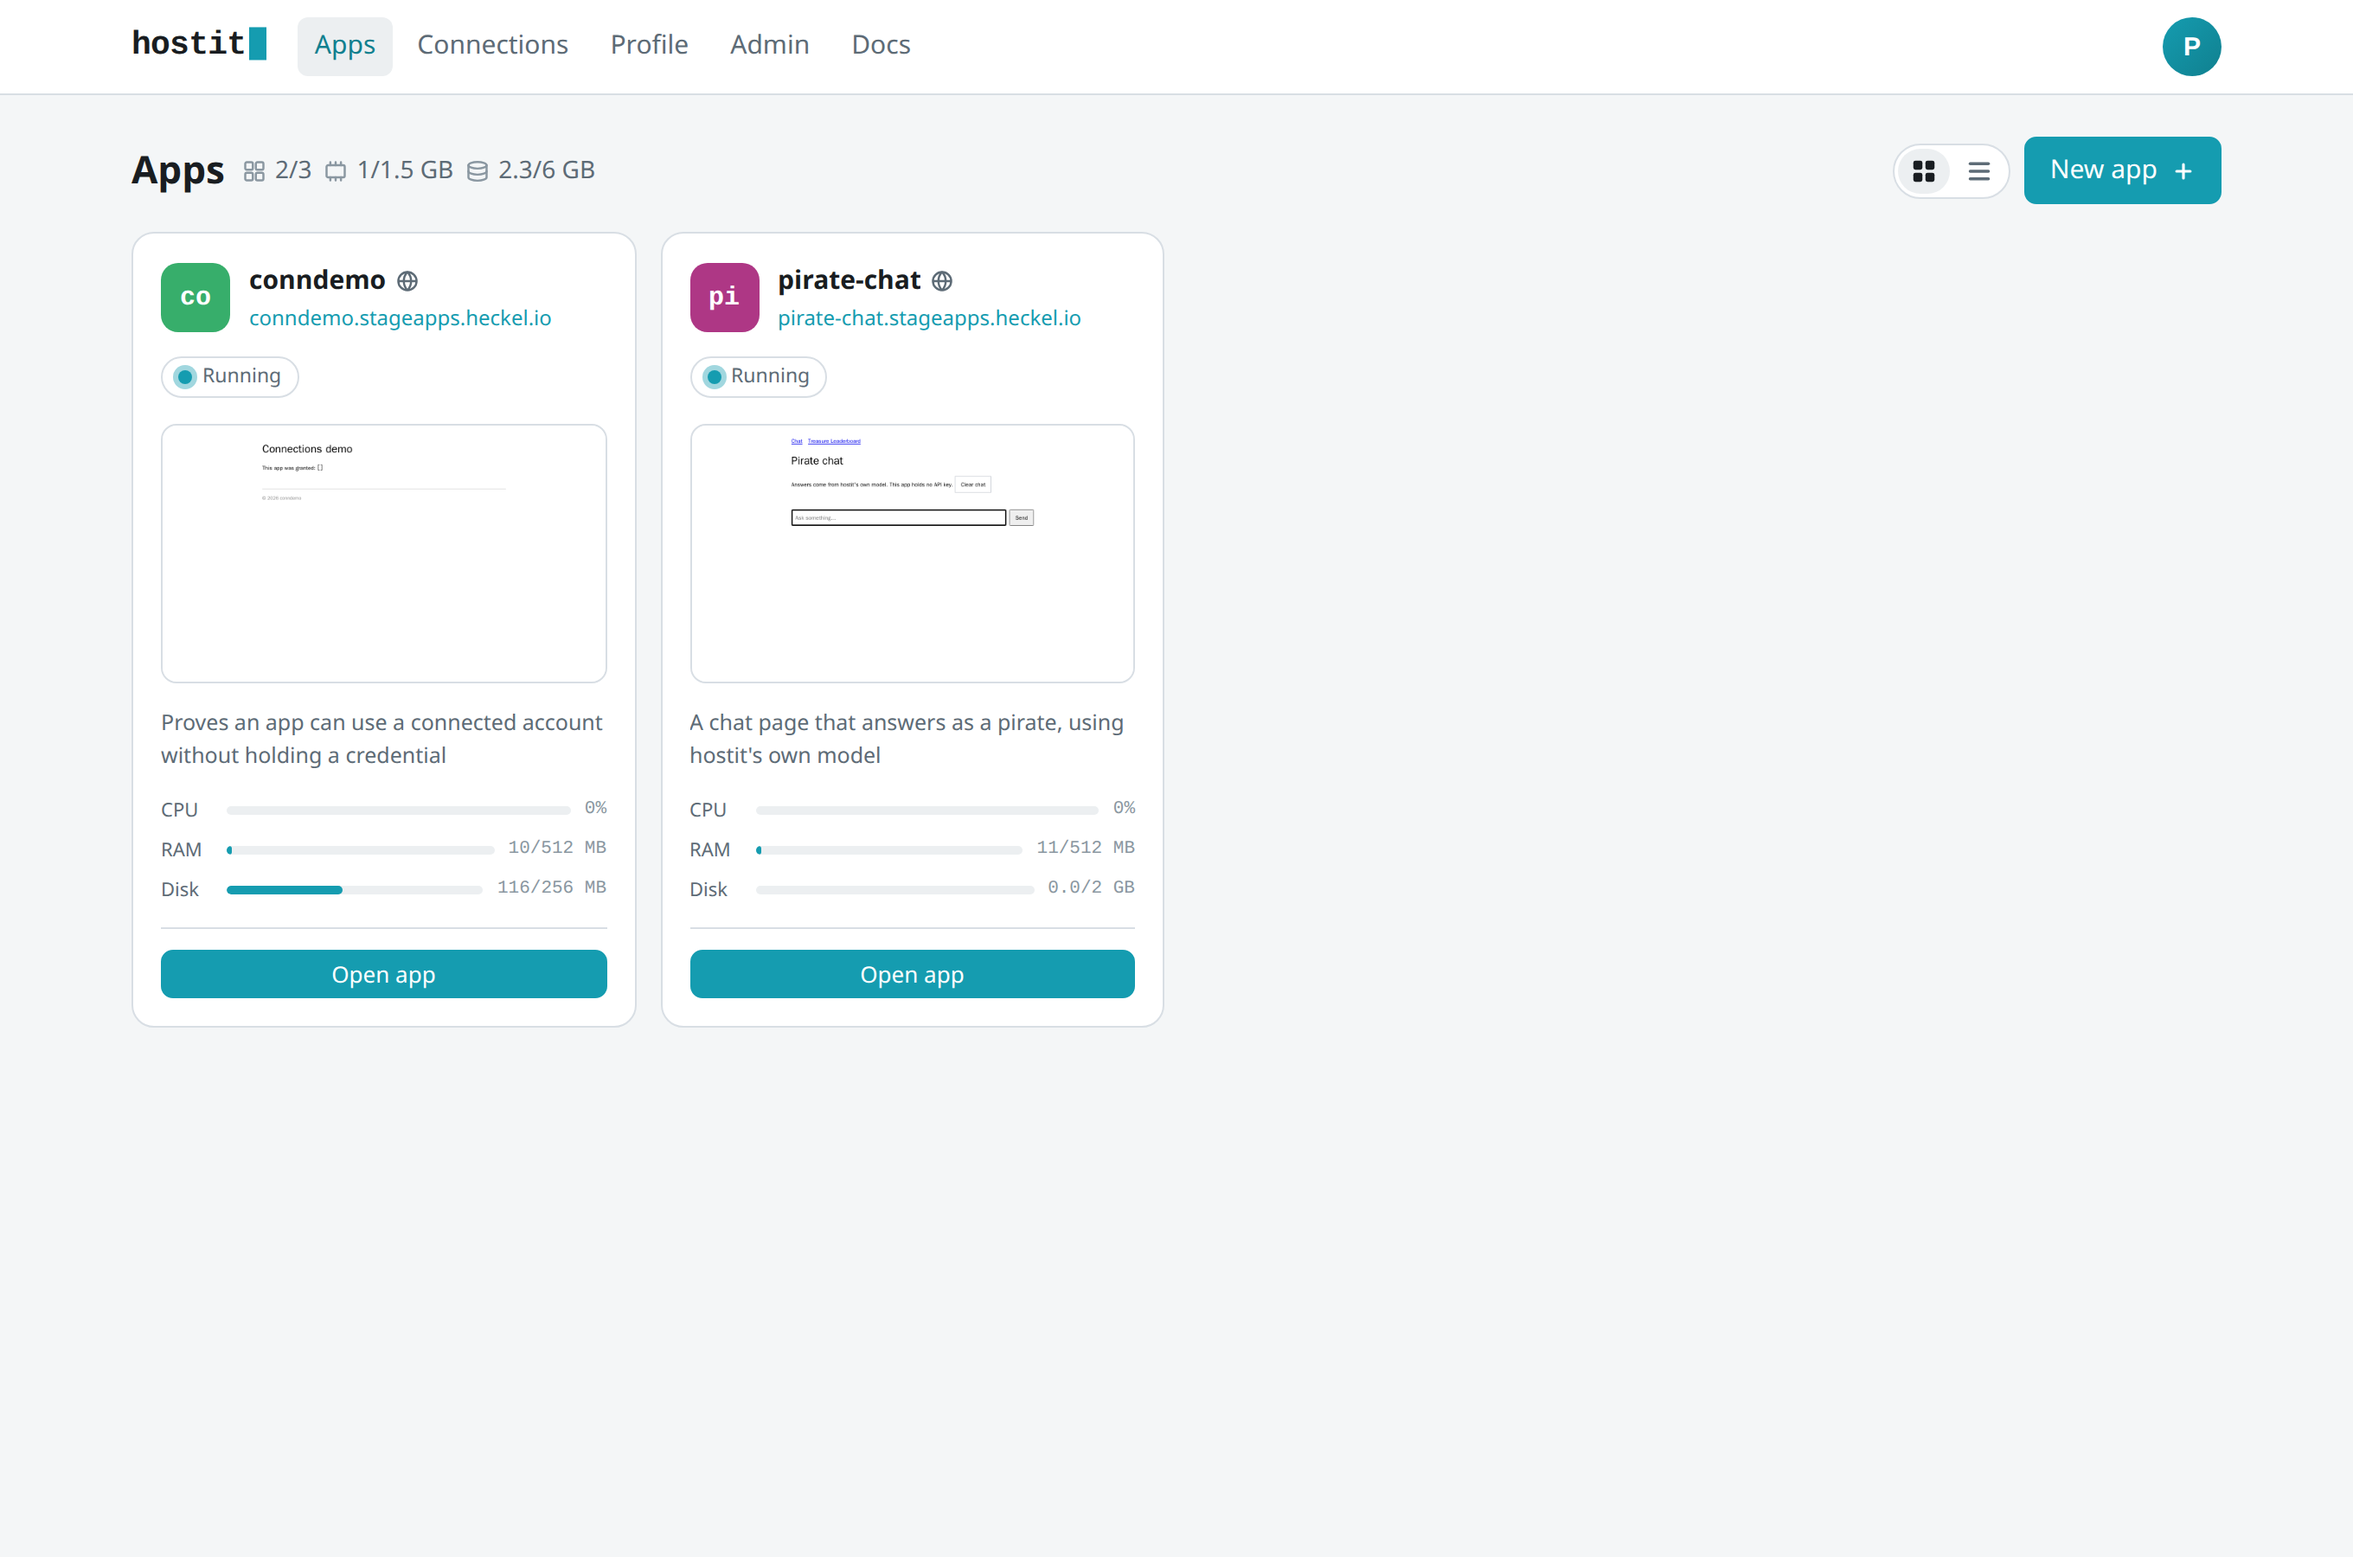
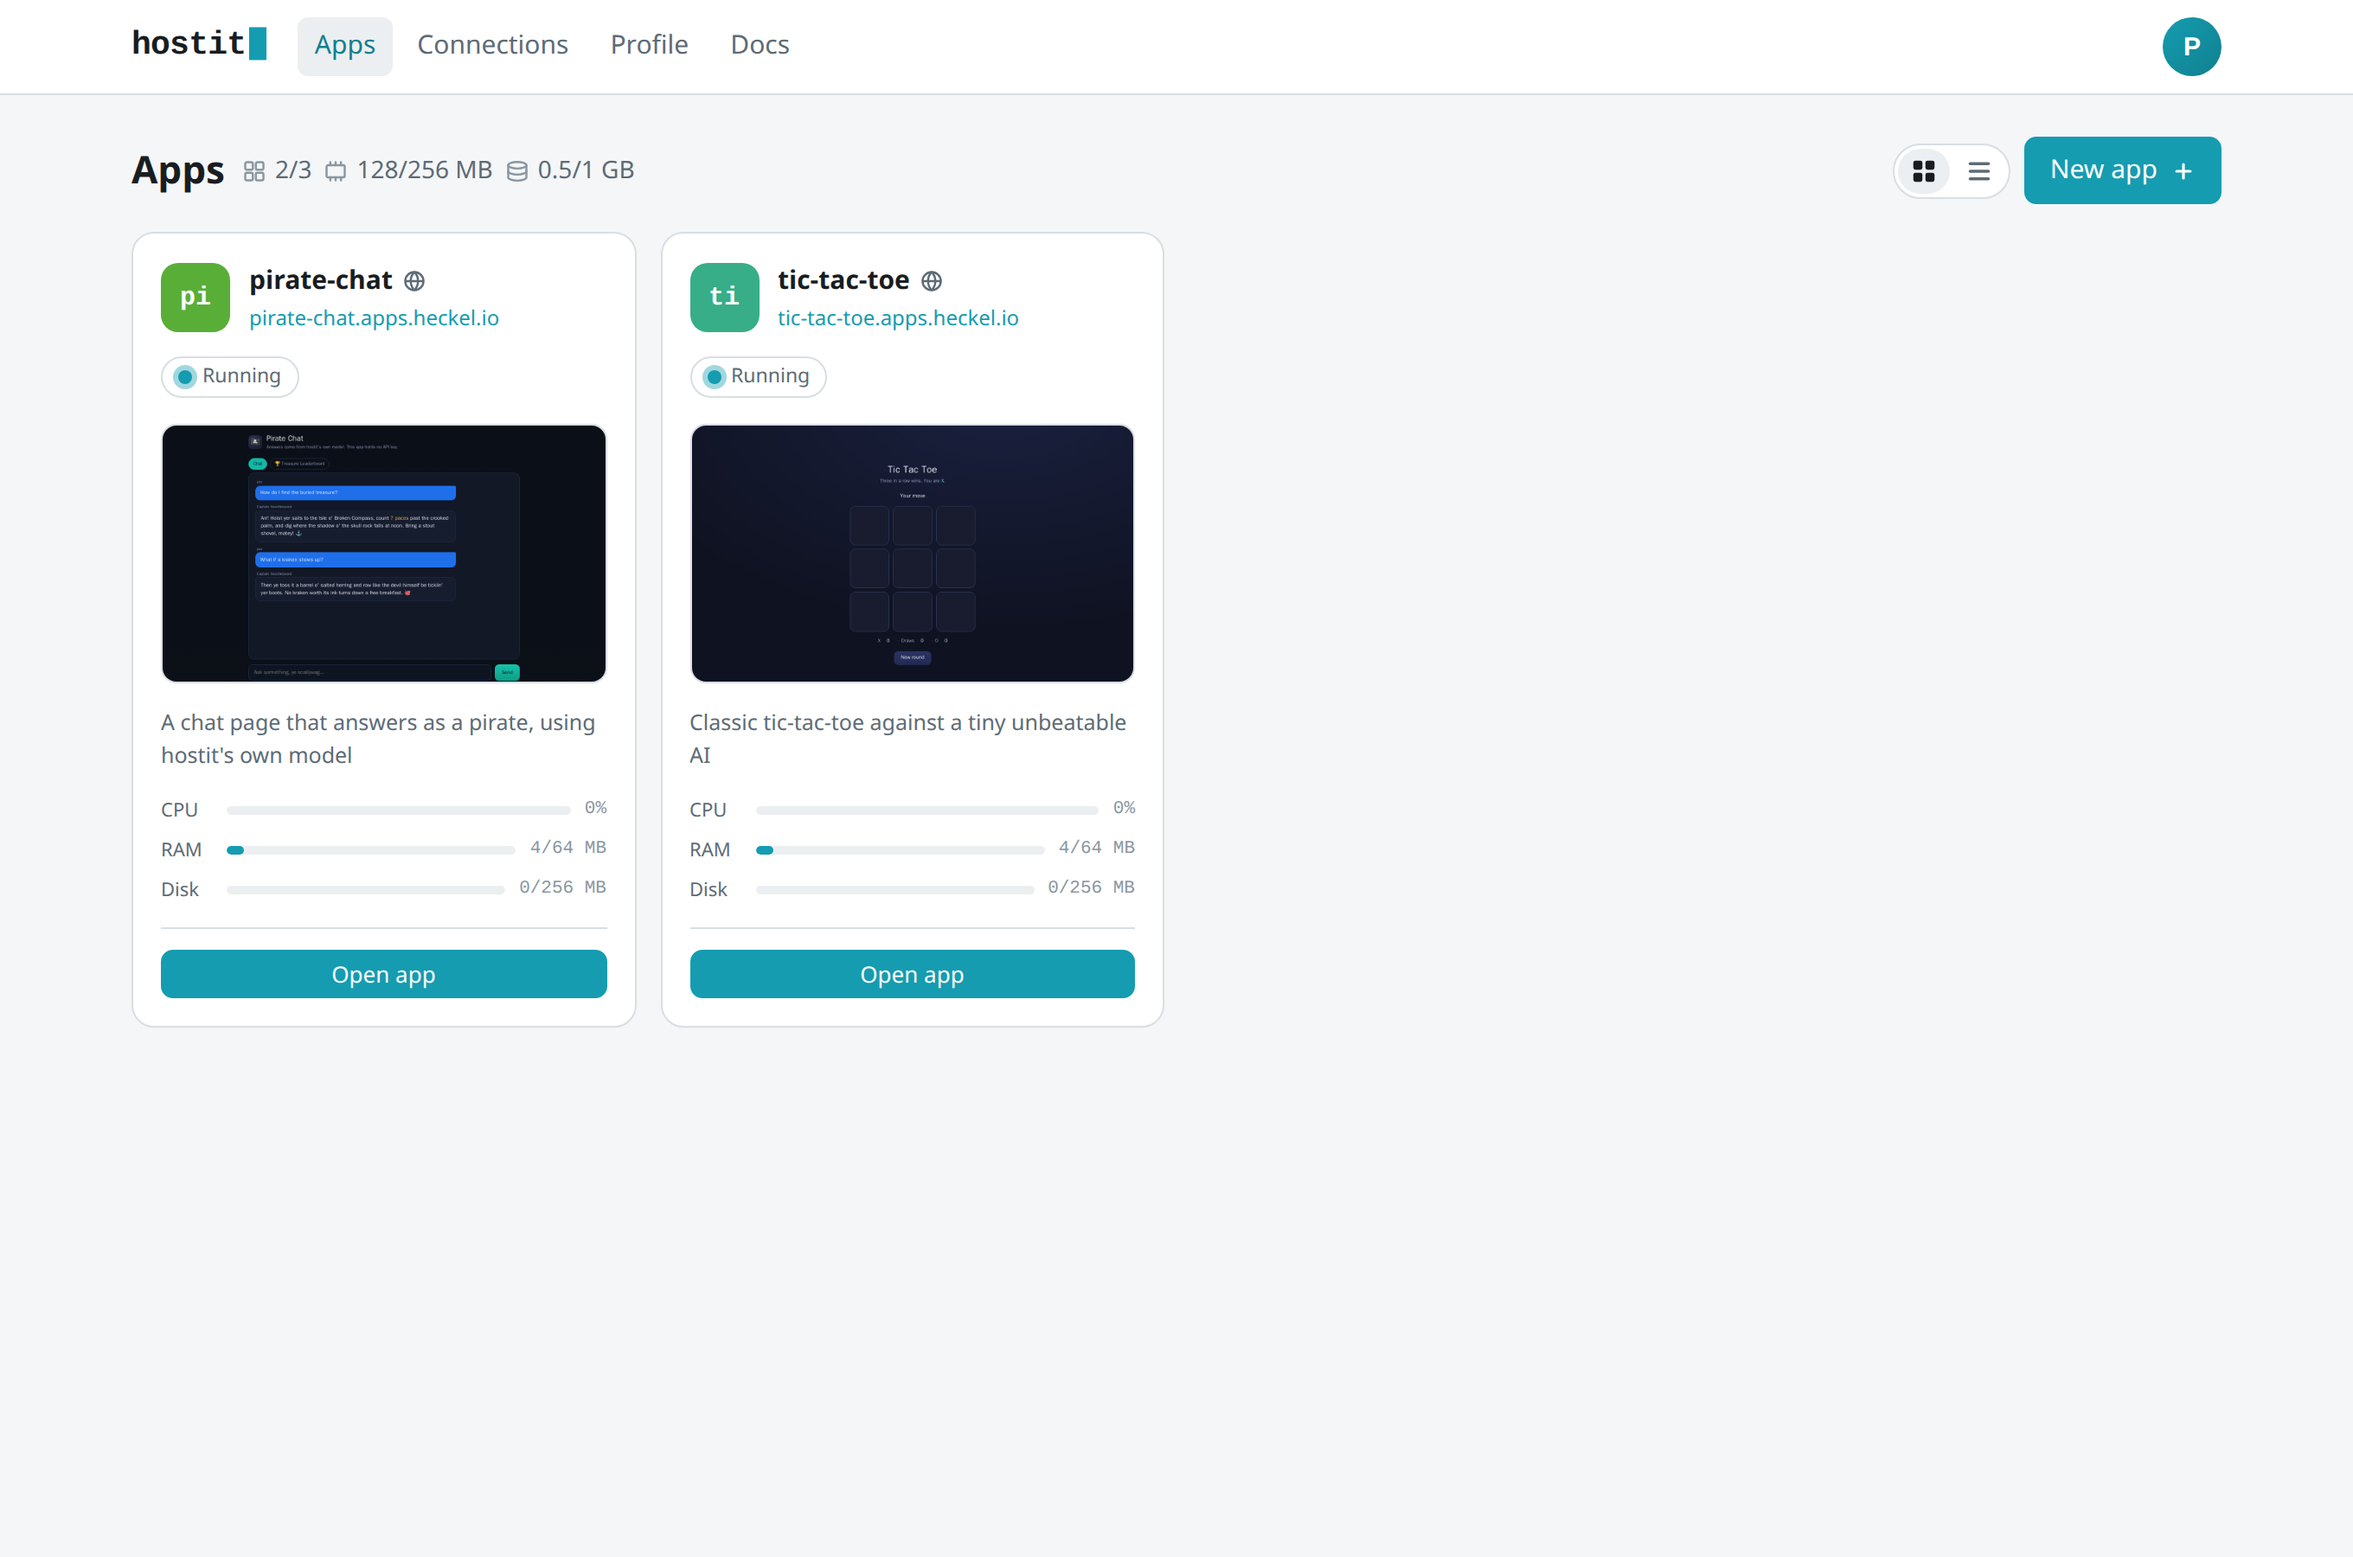
docs: fix stale code references + refresh screenshots from prod
References corrected after the role-partition refactor moved code:
- firewall/service.go:renderRuleset -> system/nftables/service.go:renderRuleset
- control/manager.go:{uidFor,writeKeysIn,ReconcilePortRules} -> node/machine.go
- control/manager.go:lockApp -> control/manager.go:LockApp (case)
- /var/lib/hostit/apps -> /var/lib/hostit/node/apps (btrfs pool moved)
Left correct refs untouched (control/socket.go still serves the self-API;
control/manager.go still owns create/Fork/CreateApp/DeleteApp).

Screenshots (dashboard, editor, terminal) retaken on apps.heckel.io with two
demo apps (pirate-chat, tic-tac-toe).

diff --git a/docs/slides/presentations/create-flow.md b/docs/slides/presentations/create-flow.md
@@ -143,15 +143,15 @@ The app's entire filesystem is ONE btrfs snapshot of the base OS tree.
 Metadata-only, instant, and **root-owned** -- ownership is never baked in.
 
 ```sh
-btrfs subvolume snapshot /var/lib/hostit/apps/.bases/1a3027527a55 \
-                         /var/lib/hostit/apps/d94773c9b2c3
+btrfs subvolume snapshot /var/lib/hostit/node/apps/.bases/1a3027527a55 \
+                         /var/lib/hostit/node/apps/d94773c9b2c3
 mkdir -p .../d94773c9b2c3/home/app        # 0755, the app's files dir
 ```
 
 <v-click>
 
 ```sh
-$ btrfs subvolume show /var/lib/hostit/apps/d94773c9b2c3
+$ btrfs subvolume show /var/lib/hostit/node/apps/d94773c9b2c3
 d94773c9b2c3
         Name:                   d94773c9b2c3
         UUID:                   de035bbc-0c44-ea49-93cd-25ac26a27390
@@ -294,15 +294,15 @@ One qgroup per app, keyed on the uid, capped on **exclusive** bytes -- what the
 app itself pins. Extents shared with the base are charged to nobody.
 
 ```sh
-btrfs qgroup create 1/1262144 /var/lib/hostit/apps
-btrfs qgroup assign 0/2115 1/1262144 /var/lib/hostit/apps   # 0/<rootid> = the subvolume
-btrfs qgroup limit -e 2048M 1/1262144 /var/lib/hostit/apps
+btrfs qgroup create 1/1262144 /var/lib/hostit/node/apps
+btrfs qgroup assign 0/2115 1/1262144 /var/lib/hostit/node/apps   # 0/<rootid> = the subvolume
+btrfs qgroup limit -e 2048M 1/1262144 /var/lib/hostit/node/apps
 ```
 
 <v-click>
 
 ```sh
-$ btrfs qgroup show -e /var/lib/hostit/apps | grep 1/1262144
+$ btrfs qgroup show -e /var/lib/hostit/node/apps | grep 1/1262144
 qgroupid      referenced    exclusive    max exclusive
 1/1262144     781.89MiB     436.00KiB    2.00GiB
 ```
@@ -343,7 +343,7 @@ are derived from the registry, never edited incrementally.
 </div>
 
 ```
-code: firewall/service.go, control/manager.go ReconcilePortRules()
+code: system/nftables/service.go, node/machine.go ReconcilePortRules()
 ```
 
 ---
@@ -365,7 +365,7 @@ podman create --name hostit-app-d94773c9b2c3 --hostname blog
   --volume /usr/bin/hostit:/usr/bin/hostit:ro
   --volume /run/hostit:/run/hostit:ro    # the daemon's unix socket
   --label hostit.config=b20b87e31ca0510e # config hash: recreate only on change
-  --rootfs /var/lib/hostit/apps/d94773c9b2c3:idmap
+  --rootfs /var/lib/hostit/node/apps/d94773c9b2c3:idmap
   /usr/bin/hostit agent                  # the agent is PID 1
 ```
 
@@ -383,7 +383,7 @@ container's uid mapping. disk root <-> container root, one rule, no chown.
 
 ```sh
 $ findmnt | grep apps/d94773c9b2c3
-/var/lib/hostit/apps/d94773c9b2c3   /dev/loop0[/d94773c9b2c3]   btrfs   rw,idmapped,...
+/var/lib/hostit/node/apps/d94773c9b2c3   /dev/loop0[/d94773c9b2c3]   btrfs   rw,idmapped,...
 ```
 
 <v-clicks>
@@ -482,7 +482,7 @@ code: hostit-app@.service, agent/, app/deploy.go apply()
 | unix user | `unixuser/service.go` |
 | keys + skeleton | `ssh/service.go`, `app/skeleton.go`, `homefs/service.go` |
 | disk budget | `app/budget.go`, `btrfs/service.go` |
-| firewall | `firewall/service.go` |
+| firewall | `system/nftables/service.go` |
 | container argv | `workspace/spec.go CreateArgs()` |
 | start + unit | `app/deploy.go apply()`, `hostit-app@.service` |
 

diff --git a/docs/architecture/isolation.md b/docs/architecture/isolation.md
@@ -84,9 +84,9 @@ per-app netns already isolate the container. The comments in
 Even on host loopback, one app must not connect to another app's published port. The
 firewall package installs an nftables `output`-hook rule per app port: a connect to
 `127.0.0.0/8` (and `::1`) on that port is dropped unless the calling socket's uid is
-`0` (the proxy) or the app's own base uid (`firewall/service.go:renderRuleset`). The
+`0` (the proxy) or the app's own base uid (`system/nftables/service.go:renderRuleset`). The
 ruleset is rebuilt from the registry (the source of truth) whenever apps change
-(`control/manager.go:ReconcilePortRules`), applied atomically by replacing the whole
+(`node/machine.go:ReconcilePortRules`), applied atomically by replacing the whole
 `inet hostit` table.
 
 ### `os.OpenRoot` file containment

diff --git a/docs/features/ssh-access.md b/docs/features/ssh-access.md
@@ -140,7 +140,7 @@ Key management (the daemon side):
 
 - `ssh/service.go:Service.WriteAuthorizedKeys` writes through the chained files
   root the caller hands it
-  (`control/manager.go:writeKeysIn` opens it via `homefs.Service.OpenRoot`); it
+  (`node/machine.go:writeKeysIn` opens it via `homefs.Service.OpenRoot`); it
   refuses if `.ssh` is not a real directory (`ssh/service.go:ErrNotDirectory`).
   The results stay root-owned and world-readable (0755 `.ssh`, 0644
   `authorized_keys`): the host's `sshd` reads them as the app user (StrictModes

diff --git a/docs/features/apps-lifecycle.md b/docs/features/apps-lifecycle.md
@@ -125,7 +125,7 @@ sequenceDiagram
   user, removes any leftover home dir, and finally `store.RemoveApp` (which cascades
   keys, snapshots, domains, events, usage, tokens, assistant session). The server
   also drops the app's assistant session (`handleAppsDelete`).
-- **Per-app lock** (`control/manager.go:lockApp`): a per-app mutex serializes deploy,
+- **Per-app lock** (`control/manager.go:LockApp`): a per-app mutex serializes deploy,
   snapshot, rollback and delete so operations on one app's home never interleave.
 
 ## Other notes

diff --git a/docs/subsystems/storage-btrfs.md b/docs/subsystems/storage-btrfs.md
@@ -200,7 +200,7 @@ partway (`snapshot/service.go:Rollback`):
    no quota to restore either: the cap lives on the app's budget qgroup, and the
    staged copy joined it at stage time (qgroup membership survives the rename).
 
-The per-app lifecycle lock (`control/manager.go:lockApp`, `appLocks`) serializes
+The per-app lifecycle lock (`control/manager.go:LockApp`, `appLocks`) serializes
 deploy/snapshot/rollback/delete, so these subvolume operations never interleave on
 one app.
 

diff --git a/docs/slides/presentations/storage.md b/docs/slides/presentations/storage.md
@@ -310,7 +310,7 @@ path `apps/<id>/home/app` IS the container's `/home/app`:
 ```console
 $ btrfs subvolume snapshot apps/.bases/1a3027527a55 apps/<id>              # instant CoW
 $ podman create --uidmap 0:1196608:65536 --network slirp4netns ... \
-    --rootfs /var/lib/hostit/apps/<id>:idmap hostit agent                 # same isolation
+    --rootfs /var/lib/hostit/node/apps/<id>:idmap hostit agent                 # same isolation
 ```
 
 <div class="mt-4 text-sm opacity-60">

diff --git a/docs/subsystems/security-isolation.md b/docs/subsystems/security-isolation.md
@@ -47,7 +47,7 @@ flowchart TB
 ## App vs app: the contiguous uid block
 
 Every app owns a **65536-wide contiguous uid/gid block**, one per app, spaced so
-blocks never overlap (`control/manager.go:uidFor`):
+blocks never overlap (`node/machine.go:uidFor`):
 
 ```
 uidFor(port) = uidBlockStart + (port - PortMin) * uidBlockSize
